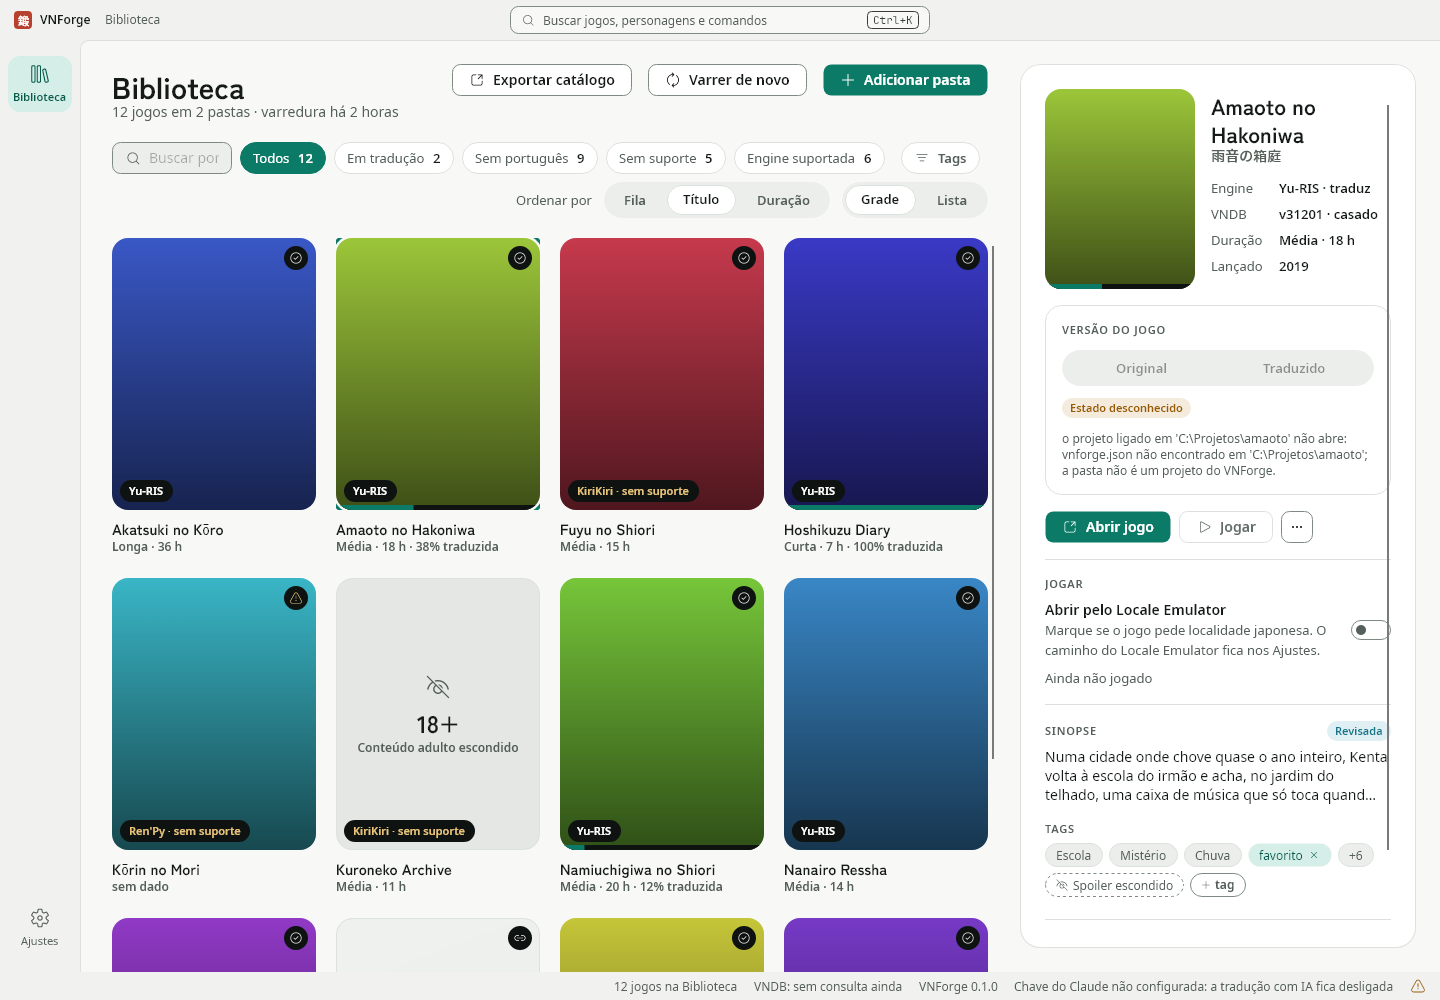
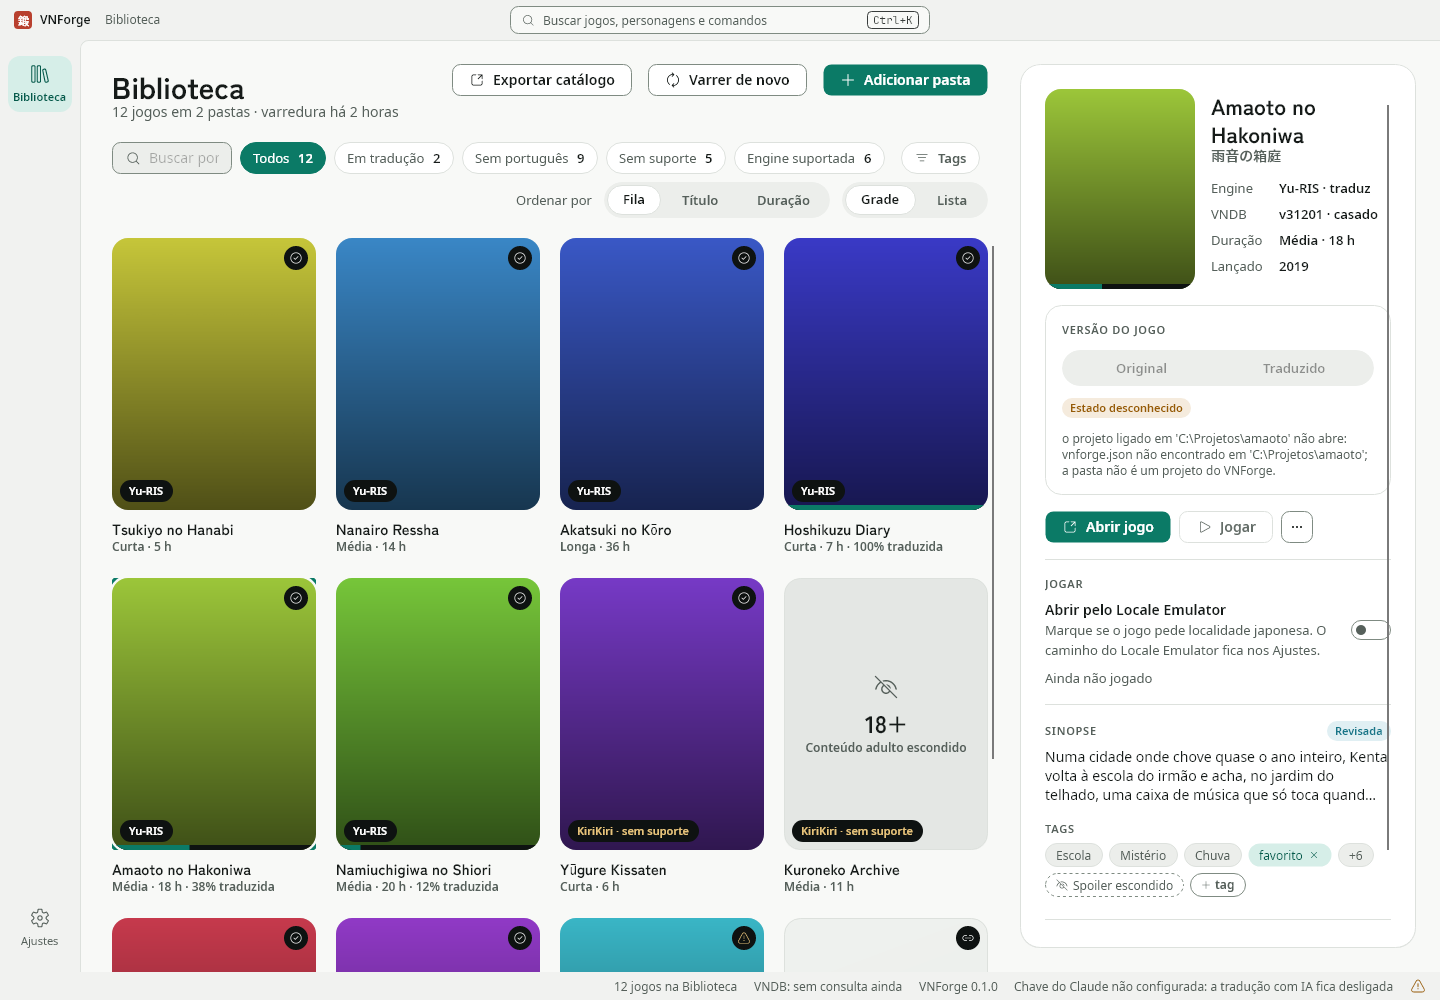
fix: Fila da Biblioteca virtualizada, com título original e subtítulo, Fila como ordem padrão e erros da conferência e do assistente tratados (Refs #551)

Changed region(s): [[0.0625, 0.186, 0.6875, 0.992]]

diff --git a/src/VNForge.App/ViewModels/LibraryViewModel.Queue.cs b/src/VNForge.App/ViewModels/LibraryViewModel.Queue.cs
@@ -52,7 +52,8 @@ public sealed partial class LibraryViewModel
     /// <summary>A conferência do português em curso, para os testes esperarem.</summary>
     public Task PortugueseChecking { get; private set; } = Task.CompletedTask;
 
-    private LibrarySort sort = LibrarySort.Title;
+    private LibrarySort sort = LibrarySort.Queue;
+    private List<TranslationQueueEntry> arranged = [];
 
     /// <summary>Os jogos já filtrados, escritos na ordem escolhida.</summary>
     private List<TranslationQueueEntry> Arrange(IReadOnlyList<LibraryGame> shown) =>
@@ -63,14 +64,26 @@ public sealed partial class LibraryViewModel
             _ => [.. shown.Select(TranslationQueue.Describe)],
         };
 
-    private void RebuildRows(IReadOnlyList<TranslationQueueEntry> entries)
+    /// <summary>As linhas só existem na lista: na grade a tabela não é desenhada e não há por que montar uma linha com capa por jogo a cada tecla da busca.</summary>
+    private void RebuildRows(List<TranslationQueueEntry> entries)
+    {
+        arranged = entries;
+        RebuildRows();
+    }
+
+    private void RebuildRows()
     {
         Rows.Clear();
-        var place = 0;
-        for (var i = 0; i < entries.Count; i++)
+        if (!IsList)
         {
-            var queued = Sort == LibrarySort.Queue && entries[i].State == TranslationQueueState.Queued;
-            Rows.Add(new LibraryQueueRowViewModel(Cards[i], entries[i], queued ? ++place : null));
+            return;
+        }
+
+        var place = 0;
+        for (var i = 0; i < arranged.Count; i++)
+        {
+            var queued = Sort == LibrarySort.Queue && arranged[i].State == TranslationQueueState.Queued;
+            Rows.Add(new LibraryQueueRowViewModel(Cards[i], arranged[i], queued ? ++place : null));
         }
     }
 
@@ -85,13 +98,14 @@ public sealed partial class LibraryViewModel
             return;
         }
 
-        PortugueseChecking = CheckPortugueseAsync(file, portugueseChecker());
+        PortugueseChecking = CheckPortugueseAsync(file, portugueseChecker);
     }
 
-    private async Task CheckPortugueseAsync(LibraryFile source, PortugueseTranslationChecker checker)
+    private async Task CheckPortugueseAsync(LibraryFile source, Func<PortugueseTranslationChecker> createChecker)
     {
         try
         {
+            var checker = createChecker();
             var snapshot = await Task.Run(source.Load);
             if (!snapshot.Games.Any(g => PortugueseTranslationChecker.NeedsCheck(g)))
             {
@@ -107,6 +121,11 @@ public sealed partial class LibraryViewModel
         catch (LibraryException)
         {
             // Um library.json ilegível já vira o aviso da leitura; a conferência só espera por um arquivo bom.
+        }
+        catch (Exception e) when (e is IOException or UnauthorizedAccessException)
+        {
+            // O library.json travado por outro programa: sem este aviso a fila ficaria em "Não conferido" sem explicação.
+            post(() => ErrorMessage = $"Não deu para conferir o português no VNDB: {e.Message}");
         }
     }
 

diff --git a/tests/VNForge.App.Tests/LibraryQueueTests.cs b/tests/VNForge.App.Tests/LibraryQueueTests.cs
@@ -28,6 +28,7 @@ public sealed class LibraryQueueTests : IDisposable
     {
         LibrarySamples.Save(_config.Path, LibrarySamples.Library(games));
         var vm = Create();
+        vm.SelectedLayout = vm.Layouts[1];
         await vm.LoadAsync();
         return vm;
     }
@@ -39,8 +40,11 @@ public sealed class LibraryQueueTests : IDisposable
     {
         var vm = await Loaded();
 
-        Assert.Equal(LibrarySort.Title, vm.Sort);
+        Assert.Equal(LibrarySort.Queue, vm.Sort);
         Assert.Equal(vm.Cards.Select(c => c.Title), vm.Rows.Select(r => r.Card.Title));
+
+        vm.SelectedSort = vm.Sorts[1];
+        Assert.Equal("Akatsuki no Kōro", vm.Rows[0].Card.Title);
 
         vm.SelectedSort = vm.Sorts[0];
 
@@ -49,6 +53,47 @@ public sealed class LibraryQueueTests : IDisposable
         Assert.Equal(vm.Rows.Select(r => r.Card.Title), vm.Cards.Select(c => c.Title));
         Assert.Equal("Hoshikuzu Diary", vm.Rows[3].Card.Title);
         Assert.Equal("Tōge no Kaji", vm.Rows[^1].Card.Title);
+    }
+
+    [Fact]
+    public async Task As_linhas_so_sao_montadas_na_lista_e_somem_na_grade()
+    {
+        var vm = await Loaded();
+        Assert.Equal(12, vm.Rows.Count);
+
+        vm.SelectedLayout = vm.Layouts[0];
+        Assert.Empty(vm.Rows);
+
+        vm.SearchText = "Nanairo";
+        Assert.Empty(vm.Rows);
+        Assert.Single(vm.Cards);
+
+        vm.SelectedLayout = vm.Layouts[1];
+        Assert.Equal(["Nanairo Ressha"], vm.Rows.Select(r => r.Card.Title));
+    }
+
+    [Fact]
+    public async Task A_linha_traz_o_titulo_original_e_o_subtitulo_do_jogo()
+    {
+        var vm = await Loaded();
+
+        var row = Row(vm, "Amaoto no Hakoniwa");
+
+        Assert.Equal("雨音の箱庭", row.Card.OriginalTitle);
+        Assert.True(row.Card.HasOriginalTitle);
+        Assert.Equal("Média · 18 h · 38% traduzida", row.Card.Subtitle);
+    }
+
+    [Fact]
+    public async Task Arquivo_travado_na_conferencia_do_portugues_vira_aviso_da_biblioteca()
+    {
+        LibrarySamples.Save(_config.Path, LibrarySamples.Library());
+        var vm = Create(() => throw new IOException("O arquivo está em uso por outro processo."));
+
+        await vm.OpenAsync(() => Task.CompletedTask);
+        await vm.PortugueseChecking;
+
+        Assert.Contains("Não deu para conferir o português no VNDB: O arquivo está em uso por outro processo.", vm.ErrorMessage, StringComparison.Ordinal);
     }
 
     [Fact]
@@ -115,6 +160,7 @@ public sealed class LibraryQueueTests : IDisposable
         LibrarySamples.Save(_config.Path, LibrarySamples.Library(games));
         var vndb = new FakeVndbCatalog(releases: [PortugueseRelease("v31201")]);
         var vm = Create(() => new PortugueseTranslationChecker(vndb, new FixedClock(LibrarySamples.Now)));
+        vm.SelectedLayout = vm.Layouts[1];
 
         await vm.OpenAsync(() => Task.CompletedTask);
         await vm.PortugueseChecking;

diff --git a/tests/VNForge.App.Tests/NewProjectWizardVndbTests.cs b/tests/VNForge.App.Tests/NewProjectWizardVndbTests.cs
@@ -25,6 +25,33 @@ public sealed class NewProjectWizardVndbTests : IDisposable
 
     public void Dispose() => temp.Dispose();
 
+    /// <summary>Um VNDB que não responde: os personagens ficam esperando até o pedido ser cancelado.</summary>
+    private sealed class HangingCatalog : IVndbCatalog
+    {
+        public TaskCompletionSource Asked { get; } = new(TaskCreationOptions.RunContinuationsAsynchronously);
+
+        public bool Searched { get; private set; }
+
+        public Task<IReadOnlyList<VndbVisualNovel>> SearchVisualNovelsAsync(string title, int limit = 10, CancellationToken ct = default)
+        {
+            Searched = true;
+            return Task.FromResult<IReadOnlyList<VndbVisualNovel>>([]);
+        }
+
+        public Task<VndbVisualNovel?> GetVisualNovelAsync(string id, CancellationToken ct = default) => Task.FromResult<VndbVisualNovel?>(Vn(id, "Amaoto no Hakoniwa", Title));
+
+        public async Task<VndbResults<VndbCharacter>> GetCharactersAsync(string visualNovelId, CancellationToken ct = default)
+        {
+            Asked.TrySetResult();
+            await Task.Delay(Timeout.Infinite, ct);
+            return new VndbResults<VndbCharacter>([], false);
+        }
+
+        public Task<VndbResults<VndbCharacter>> SearchCharactersByTitleAsync(string title, CancellationToken ct = default) => throw new NotSupportedException();
+
+        public Task<VndbResults<VndbRelease>> GetReleasesAsync(string visualNovelId, CancellationToken ct = default) => throw new NotSupportedException();
+    }
+
     private static VndbVisualNovel Vn(string id, string title, string original) =>
         new(id, title, original, [], [], "ja", 0, "2019-05-31", ["ja"], ["win"], null, 3, 1080, 10, "Numa [b]cidade[/b] onde chove.", []);
 
@@ -85,6 +112,24 @@ public sealed class NewProjectWizardVndbTests : IDisposable
         Assert.Equal(VndbStage.Empty, vm.Stage);
         Assert.Null(vm.ConfirmedVndb);
         Assert.Equal(WizardStep.Vndb, vm.Step);
+    }
+
+    [Fact]
+    public async Task Cancelar_o_pedido_da_ficha_conhecida_nao_cai_na_busca_por_titulo()
+    {
+        var catalog = new HangingCatalog();
+        var vm = Create(catalog);
+        await vm.SetGameFolderAsync(game, "v1");
+        vm.SetProjectDirectory(Path.Combine(temp.Path, "minha-vn"));
+
+        var next = vm.NextCommand.ExecuteAsync(null);
+        await catalog.Asked.Task.WaitAsync(TimeSpan.FromSeconds(10), TestContext.Current.CancellationToken);
+        Assert.Equal(VndbStage.Confirming, vm.Stage);
+        vm.SkipVndbCommand.Execute(null);
+        await next;
+
+        Assert.Equal(VndbStage.Skipped, vm.Stage);
+        Assert.False(catalog.Searched);
     }
 
     [Fact]

diff --git a/src/VNForge.App/ViewModels/NewProjectWizardViewModel.Vndb.cs b/src/VNForge.App/ViewModels/NewProjectWizardViewModel.Vndb.cs
@@ -318,9 +318,9 @@ public sealed partial class NewProjectWizardViewModel
         vndbSearchedFolder = GameFolder;
         if (knownVndbId is { } known)
         {
-            // O jogo veio da Biblioteca com o casamento já confirmado: traz a ficha direto, sem buscar de novo. Se o VNDB não responde, cai na busca de sempre.
+            // O jogo veio da Biblioteca com o casamento já confirmado: traz a ficha direto, sem buscar de novo. Só um erro do VNDB cai na busca de sempre; quem cancelou já cuidou do estado.
             knownVndbId = null;
-            if (vndb is not null && await ConfirmAsync(string.Empty, token => VndbProjectLinker.BuildAsync(vndb, known, token)))
+            if (vndb is not null && await ConfirmAsync(string.Empty, token => VndbProjectLinker.BuildAsync(vndb, known, token)) is not false)
             {
                 return;
             }
@@ -473,8 +473,8 @@ public sealed partial class NewProjectWizardViewModel
         await ConfirmAsync(chosen.Title, async token => VndbProjectLinker.From(chosen.Candidate.VisualNovel, await vndb.GetCharactersAsync(chosen.Candidate.VisualNovel.Id, token)));
     }
 
-    /// <summary>Traz a ficha (<paramref name="load"/>) e mostra o que chega ao projeto. Devolve se chegou à confirmação; no erro volta à lista de resultados.</summary>
-    private async Task<bool> ConfirmAsync(string title, Func<CancellationToken, Task<VndbLink>> load)
+    /// <summary>Traz a ficha (<paramref name="load"/>) e mostra o que chega ao projeto. Devolve se chegou à confirmação, nulo se o pedido foi cancelado; no erro volta à lista de resultados.</summary>
+    private async Task<bool?> ConfirmAsync(string title, Func<CancellationToken, Task<VndbLink>> load)
     {
         Stage = VndbStage.Confirming;
         VndbHeadline = "Trazendo os personagens";
@@ -486,13 +486,13 @@ public sealed partial class NewProjectWizardViewModel
             var link = await load(cts.Token);
             if (cts.IsCancellationRequested)
             {
-                return false;
+                return null;
             }
 
             var gameNames = await ReadGameNamesAsync(cts.Token);
             if (cts.IsCancellationRequested)
             {
-                return false;
+                return null;
             }
 
             confirmedLink = link;
@@ -503,7 +503,7 @@ public sealed partial class NewProjectWizardViewModel
         catch (OperationCanceledException) when (cts.IsCancellationRequested)
         {
             // Quem cancelou já cuidou do estado.
-            return false;
+            return null;
         }
         catch (VNForgeException e) when (!cts.IsCancellationRequested)
         {

diff --git a/tests/VNForge.App.Tests/LibraryViewModelTests.cs b/tests/VNForge.App.Tests/LibraryViewModelTests.cs
@@ -67,7 +67,7 @@ public sealed class LibraryViewModelTests : IDisposable
         Assert.Equal(LibraryMode.Games, vm.Mode);
         Assert.True(vm.HasGames);
         Assert.Equal(12, vm.Cards.Count);
-        Assert.Equal("Akatsuki no Kōro", vm.Cards[0].Title);
+        Assert.Equal("Tsukiyo no Hanabi", vm.Cards[0].Title);
         Assert.Equal(["Todos", "Em tradução", "Sem português", "Sem suporte", "Engine suportada"], vm.Filters.Select(f => f.Label));
         Assert.Equal([12, 2, 9, 5, 6], vm.Filters.Select(f => f.Count));
         Assert.Equal("12 jogos em 2 pastas · varredura há 2 horas", vm.Subtitle);

diff --git a/src/VNForge.App/ViewModels/LibraryViewModel.cs b/src/VNForge.App/ViewModels/LibraryViewModel.cs
@@ -279,7 +279,11 @@ public sealed partial class LibraryViewModel : ObservableObject
 
     partial void OnSearchTextChanged(string value) => Refilter();
 
-    partial void OnLayoutChanged(LibraryLayout value) => OnPropertyChanged(nameof(SelectedLayout));
+    partial void OnLayoutChanged(LibraryLayout value)
+    {
+        OnPropertyChanged(nameof(SelectedLayout));
+        RebuildRows();
+    }
 
     /// <summary>Escolhe o chip de filtro; os outros desmarcam.</summary>
     public void SelectFilter(LibraryFilter filter)
